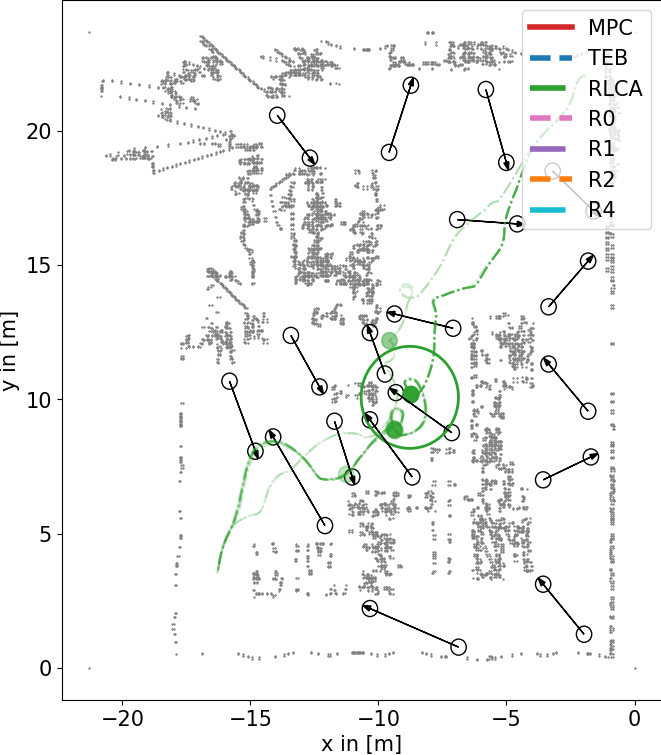
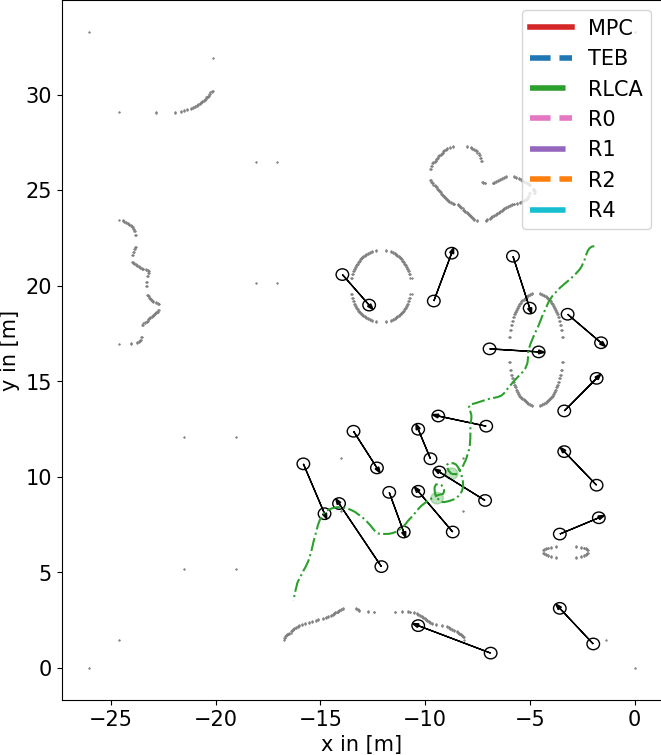
nothing to be added

diff --git a/arena_navigation/arena_local_planner/evaluation/scripts/scenario_eval.py b/arena_navigation/arena_local_planner/evaluation/scripts/scenario_eval.py
@@ -11,6 +11,7 @@ import yaml
 # for plots
 import matplotlib
 import matplotlib.pyplot as plt
+import matplotlib.pylab as pl
 from matplotlib.lines import Line2D
 from matplotlib.pyplot import figure
 from matplotlib.patches import Polygon
@@ -24,7 +25,7 @@ import rospy
 from visualization_msgs.msg import Marker, MarkerArray
 import pathlib
 import os
-from sklearn.cluster import AgglomerativeClustering
+# from sklearn.cluster import AgglomerativeClustering
 # gplan
 import gplan_analysis as gplan
 matplotlib.rcParams.update({'font.size': 15})
@@ -145,6 +146,7 @@ class newBag():
 
             pose_x = []
             pose_y = []
+            vel_total = []
             t = []
 
             bags = {}
@@ -169,6 +171,13 @@ class newBag():
                 y = round(y,2)
                 reset = t_reset[n]
 
+                # vel
+                v_lin_x = round(df_odom.loc[i, "twist.twist.linear.x"],2)
+                v_lin_y = round(df_odom.loc[i, "twist.twist.linear.y"],2)
+                v_total = round(abs(v_lin_x**2+v_lin_y**2),2)
+                # v_ang_z = round(df_odom.loc[i, "twist.twist.angular.z"],2)
+
+                # print(vx, vy, vz)
                 # print(reset)
 
                 # check if respawned
@@ -185,7 +194,7 @@ class newBag():
                     n += 1
                     # store the run
                     if n in select_run or len(select_run) == 0:
-                        bags["run_"+str(n)] = [pose_x, pose_y, t, col_xy, subgoal_x, subgoal_y, wpg_x, wpg_y]
+                        bags["run_"+str(n)] = [pose_x, pose_y, t, col_xy, subgoal_x, subgoal_y, wpg_x, wpg_y, vel_total]
 
                     # reset 
                     wpg_x     = []
@@ -196,6 +205,7 @@ class newBag():
 
                     pose_x    = []
                     pose_y    = []
+                    vel_total = []
                     t         = []
 
                     col_xy    = []
@@ -206,12 +216,13 @@ class newBag():
                 if n+1 in select_run or len(select_run) == 0 and dist2_oldp < 1:
 
                     # append pos if pose is empty
-                    if len(pose_x) == 0:
-                        pose_x.append(x)
-                        pose_y.append(y)
+                    # if len(pose_x) == 0:
+                    #     pose_x.append(x)
+                    #     pose_y.append(y)
                   
                     pose_x.append(x)
                     pose_y.append(y)
+                    vel_total.append(v_total)
 
                     t.append(current_time)
                     # get trajectory
@@ -312,13 +323,46 @@ class newBag():
         if col_exists:
             self.make_grid([all_cols_x, all_cols_y], clr)
 
+    def fancy_plot(self, x, y, vels,skip, mode): 
+        if mode == True:
+            n = 50
+            colors  = plt.cm.jet(np.linspace(0,1,n))
+            vel_map = np.linspace(0,0.5,n)
+            
+            print(vels)
+
+            idx = 0
+            joined = 0
+            xi = []
+            yi = []
+            while idx < len(x):
+                mid     = min(range(len(vel_map)), key=lambda i: abs(vel_map[i]-vels[idx]))
+                if joined == skip or idx == len(x) - 1:
+                    plt.plot(xi, yi, "-",color=colors[mid]) 
+                    # plt.scatter(xi, yi, marker='+')
+                    # plt.scatter(xi, yi, marker='+')
+                    xi = []
+                    yi = []
+                    joined = 0
+                    if idx != len(x) - 1:
+                        idx -=1
+                xi.append(x[idx])
+                yi.append(y[idx])
+                # yi.append(1)
+
+                joined += 1
+                idx += 1
+        else:
+            return False
+
+
     def evalPath(self, planner, file_name, bags):
         col_xy = []
         global ax, axlim, plt_cfg, line_clr, line_stl
 
         durations = [] 
         trajs = []
-        vels  = []
+        av_vels = []
 
         # self.make_txt(file_name, "\n"+"Evaluation of "+planner+":") --txt
         axlim = {}
@@ -334,8 +378,9 @@ class newBag():
         json_data['velocity']  = []
         json_data['collision'] = []
 
+
         for run in bags:
-            if run != "nrun_2/":
+            if run == "run_5":
                 
 
                 pose_x = bags[run][0]
@@ -344,6 +389,7 @@ class newBag():
                 sg_y   = bags[run][5]
                 wp_x   = bags[run][6]
                 wp_y   = bags[run][7]
+                vels   = bags[run][8]
 
                 x    =  np.array(pose_x)
                 y    = -np.array(pose_y)
@@ -351,7 +397,8 @@ class newBag():
                 sg_y = -np.array(sg_y)
                 wp_x =  np.array(wp_x)
                 wp_y = -np.array(wp_y)
-
+                vels =  np.array(vels)
+                
                 # print(wp_x)
                 # print(wp_y)
 
@@ -374,7 +421,13 @@ class newBag():
                 trajs.append(path_length)
                 if path_length > 0 and plt_cfg["plot_trj"]:
                     # print(lgnd)
-                    ax.plot(y, x, line_clr, linestyle = line_stl, alpha=0.2)
+                    # n = len(x)
+                    # for i in range(n):
+
+                    colors = pl.cm.jet(np.linspace(0,1,10))
+                    # plt.plot(x, i*y, color=colors[i])
+                    # ax.plot(y, x, color=colors[7], linestyle = line_stl, alpha=1)
+                    self.fancy_plot(y,x,vels,2,1)
                     ax.set_xlabel("x in [m]")
                     ax.set_ylabel("y in [m]")
 
@@ -393,13 +446,14 @@ class newBag():
                 durations.append(duration)
                 av_vel = path_length/duration
                 # for av
-                vels.append(av_vel)
+                
 
                 n_col = len(bags[run][3])
 
                 duration    = round(duration,3)
                 path_length = round(path_length,3)
                 av_vel      = round(av_vel,3)
+                av_vels.append(av_vel)
 
                 cr = run+": "+str([duration, path_length, av_vel, n_col])
                 # plot global plan
@@ -426,13 +480,13 @@ class newBag():
         msg_planner = "\n----------------------   "    + planner                               + " summary: ----------------------"
         msg_at      = "\naverage time:        "        + str(round(self.average(durations),3)) + " s"
         msg_ap      = "\naverage path length: "        + str(round(self.average(trajs),3))     + " m"
-        msg_av      = "\naverage velocity:    "        + str(round(self.average(vels),3))      + "  m/s"
+        msg_av      = "\naverage velocity:    "        + str(round(self.average(av_vels),3))   + "  m/s"
         msg_col     = "\ntotal number of collisions: " + str(self.nc_total)+"\n"
 
         print("----------------------   "+planner+"   ----------------------")
         print("average time:        ", round(self.average(durations),3), "s")
         print("average path length: ", round(self.average(trajs),3), "m")
-        print("average velocity:    ", round(self.average(vels),3), " m/s")
+        print("average velocity:    ", round(self.average(av_vels),3), " m/s")
         print("total collisions:    ",   str(self.nc_total))
         
         # average to txt (summary)

diff --git a/arena_navigation/arena_local_planner/evaluation/scripts/heatmap.py b/arena_navigation/arena_local_planner/evaluation/scripts/heatmap.py
@@ -1,0 +1,99 @@
+# import numpy as np
+# from matplotlib import pyplot as plt
+
+# plt.rcParams["figure.figsize"] = [7.50, 3.50]
+# plt.rcParams["figure.autolayout"] = True
+# x = np.linspace(-1, 1, 1000)
+# y = np.exp(x)
+# c = np.tan(x)
+# plt.scatter(x, y, c=c, marker='.')
+# plt.show()
+
+
+# import numpy as np
+# import matplotlib.pyplot as plt
+# from matplotlib import cm
+# import matplotlib.collections as mcoll
+# import matplotlib.path as mpath
+
+# x = np.arange(-8, 4, 0.1)
+# y = 1 + 0.5 * x**2
+
+# MAP = 'jet'
+# NPOINTS = len(x)
+
+# fig = plt.figure()
+# ax1 = fig.add_subplot(111) 
+# cm = plt.get_cmap(MAP)
+# for i in range(10):
+#     ax1.set_color_cycle([cm(1.0*i/(NPOINTS-1)) for i in range(NPOINTS-1)])
+#     for i in range(NPOINTS-1):
+#         plt.plot(x[i:i+5],y[i:i+5],"--or")
+# cl = np.tan(x)
+# plt.plot(x,y)
+
+
+# plt.show() # Show the figure
+
+
+# import numpy as np
+# import matplotlib.pylab as plt
+
+# x = np.linspace(0, 2*np.pi, 100)
+# y = np.cos(x) 
+
+# # pl.figure()
+# # pl.plot(x,y)
+
+# n = 50
+# colors = plt.cm.jet(np.linspace(0,1,n))
+# vels = np.linspace(0,0.5,n)
+
+# mid = min(range(len(vels)), key=lambda i: abs(vels[i]-0.3))
+
+
+# print(vels)
+
+# print(mid, vels[mid])
+
+# idx = 0
+# joined = 0
+# xi = []
+# yi = []
+# skip = 2
+# while idx < len(x):
+
+#     if joined == skip or idx == len(x) - 1:
+#         plt.plot(xi, yi, "-") 
+#         # plt.scatter(xi, yi, marker='+', color=colors[9])
+#         # plt.scatter(xi, yi, marker='+')
+#         xi = []
+#         yi = []
+#         joined = 0
+#         if idx != len(x) - 1:
+#             idx -=1
+#     xi.append(x[idx])
+#     yi.append(y[idx])
+#     # yi.append(1)
+
+#     joined += 1
+#     idx += 1
+
+# plt.show()
+
+
+import matplotlib.pyplot as plt
+
+figure, axes = plt.subplots()
+draw_circle_1 = plt.Circle((0,0), 0.1,fill = False, color = "green")
+draw_circle_2 = plt.Circle((0,0), 0.3,fill = False, color = "blue")
+draw_circle_3 = plt.Circle((0,0), 0.5,fill = False, color = "red")
+
+axes.set_aspect(1)
+axes.add_artist(draw_circle_1)
+axes.add_artist(draw_circle_2)
+axes.add_artist(draw_circle_3)
+axes.set_ylim([0,0.6])
+axes.set_xlim([-0.6,0.6])
+plt.title('action map')
+plt.show()
